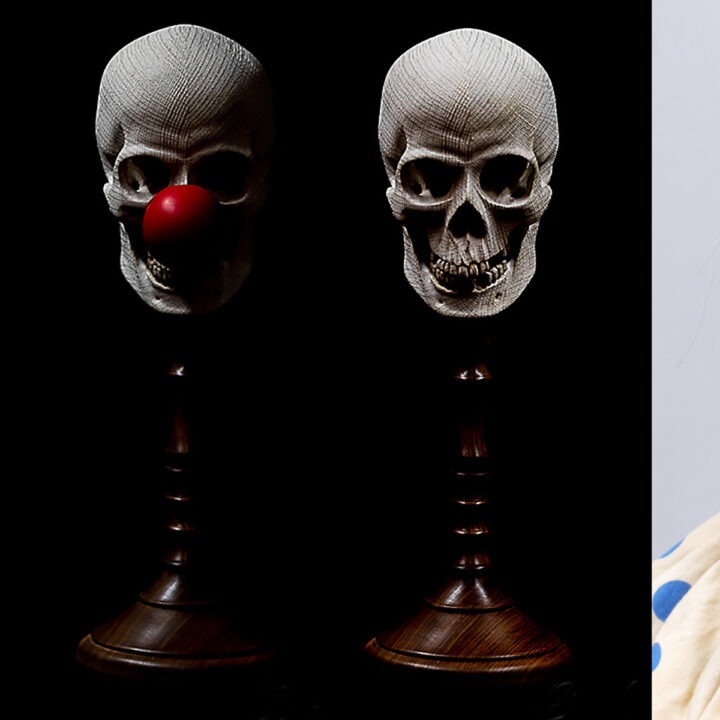
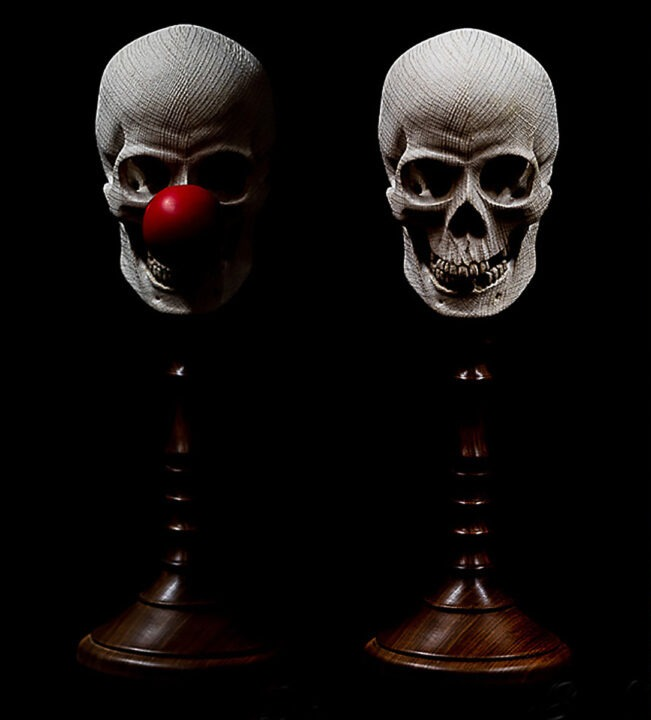
Fix image-crop bleed: re-crop 3 composite-derived images at true seam
sculpture-bust-dome.jpg, sfx-lucy-bust.jpg, and sfx-skulls.jpg were each
cropped from a Slider-{2,3,4}-1440x720.jpg composite at an assumed
midpoint (x=720), but the real photo seam in each composite sits
elsewhere, so all three bled a strip of the unrelated adjacent photo
into their edge (most notably 27% golden-eagle taxidermy content inside
the sculpture-section bust photo). Re-cropped from the same source
composites at the reviewer-measured true seams (x=523/601/651) and
updated the corresponding <img> width/height attributes in work.html.
Re-ran upscale-audit.js at mobile/tablet/desktop on work.html and
index.html: 0 violations, 0 broken, 0 aspect mismatches.

diff --git a/work.html b/work.html
@@ -105,7 +105,7 @@
           <figcaption>Boar &mdash; cast pewter relief</figcaption>
         </figure>
         <figure class="piece ratio-square" data-reveal>
-          <div class="frame"><img src="assets/img/sculpture-bust-dome.jpg" width="720" height="720" loading="lazy" alt="Sculpted bust displayed under a glass dome, by Carl Church."></div>
+          <div class="frame"><img src="assets/img/sculpture-bust-dome.jpg" width="523" height="720" loading="lazy" alt="Sculpted bust displayed under a glass dome, by Carl Church."></div>
           <figcaption>Sculpted bust, under glass</figcaption>
         </figure>
       </div>
@@ -131,11 +131,11 @@
           <figcaption>Prosthetic character make-up &mdash; film SFX</figcaption>
         </figure>
         <figure class="piece ratio-square" data-reveal>
-          <div class="frame"><img src="assets/img/sfx-lucy-bust.jpg" width="720" height="720" loading="lazy" alt="Prosthetic primate-head bust under glass dome, film special-effects work by Carl Church."></div>
+          <div class="frame"><img src="assets/img/sfx-lucy-bust.jpg" width="601" height="720" loading="lazy" alt="Prosthetic primate-head bust under glass dome, film special-effects work by Carl Church."></div>
           <figcaption>Prosthetic bust study &mdash; film SFX</figcaption>
         </figure>
         <figure class="piece ratio-square" data-reveal>
-          <div class="frame"><img src="assets/img/sfx-skulls.jpg" width="720" height="720" loading="lazy" alt="Sculpted skull props on stands, film special-effects work by Carl Church."></div>
+          <div class="frame"><img src="assets/img/sfx-skulls.jpg" width="651" height="720" loading="lazy" alt="Sculpted skull props on stands, film special-effects work by Carl Church."></div>
           <figcaption>Sculpted skull props &mdash; film SFX</figcaption>
         </figure>
       </div>

diff --git a/QA_REPORT.md b/QA_REPORT.md
@@ -49,5 +49,45 @@ All checks run against a live local server (`python3 -m http.server`) via Playwr
 - Scroll-reveal `IntersectionObserver` in `assets/js/main.js` correctly implements the AGENTS.md standing rule: checks `getBoundingClientRect()` per `[data-reveal]` element before observing and adds `is-visible` immediately for anything already in the viewport at load.
 - Standing CSS/HTML defaults spot-checked in `assets/css/style.css`: global `box-sizing: border-box`, `overflow-wrap: anywhere` + `word-break: break-word` + `min-width: 0` on `.contact-list .v`, `font-variant-numeric: tabular-nums` on `.stat .num` and `.process-list li::before`, `@view-transition { navigation: auto; }` present, `linear-gradient(in oklch, ...)` and `color-mix(in oklch, ...)` used for brand gradients/tints, `:hover` on stable wrapper (`.card`) animating a child (`.card .frame img`) rather than the hover-owning element itself, `grid-template-rows: subgrid` on `.card` for aligned card rows, `aspect-ratio` wrapper + `object-fit: cover` pattern used consistently for all images.
 
+## Independent Reviewer Verification (2026-07-13)
+
+Per REVIEW.md, treated the above builder-reported PASS as a map, not proof, and re-verified independently rather than cross-checking filenames against the manifest alone (see sibling Wheelwrights incident: a manifest-only "PASS" missed two swapped images). Actually opened every one of the 18 images used on the site and visually compared each to its caption/alt text and adjacent copy. Also independently re-ran the shared audits against a fresh local server (port 4262, separate from the builder's port 4261) via the `.pipeline/.qa-scratch` Playwright install, and independently recomputed gradient-text contrast in-browser via canvas `fillStyle` (not just trusting the builder's numbers).
+
+| Check | Result | Evidence |
+|---|---|---|
+| Contrast (independent recompute) | PASS | Re-ran `contrast-audit.js` fresh (not copy-pasted from builder) across 3 pages × 3 breakpoints: 0 violations everywhere. Independently recomputed the 5 `needsManualCheck` gradient-text pairs via in-page canvas `fillStyle`→pixel sampling: `.btn.btn-primary` text vs gradient 7.46:1 / 9.90:1, `.cta-band h2` vs gradient 6.85:1 / 10.67:1, `.cta-band p` vs gradient 6.84:1 — all comfortably above WCAG AA. Confirms the builder's header-button fix holds. |
+| Upscale/broken/aspect (independent, with forced lazy-load) | PASS | Wrote a custom Playwright scroll-to-bottom-then-audit script (run-audit.js alone doesn't trigger `loading="lazy"`; confirmed 4 images reported `notYetLoaded` on a naive run before adding the scroll step). After proper lazy-load triggering: 0 violations, 0 broken, 0 aspect mismatches across all 3 pages × 3 breakpoints (index: 6 images, work: 16, contact: 0). |
+| Mobile layout | PASS | 375px width, all 3 pages: nav toggle click sets `.main-nav.is-open` + `aria-expanded="true"` correctly; `document.documentElement.scrollWidth === clientWidth` (no horizontal overflow) on every page. |
+| Scroll-reveal | PASS (after investigation) | A full-page screenshot of work.html initially showed large blank-looking gaps between sections — investigated rather than assumed a bug. Root cause: `page.screenshot({fullPage:true})` doesn't give `IntersectionObserver` real scroll-dwell time for every element, and a synthetic fast step-scroll test also under-triggered it (16/21 `data-reveal` elements visible). A direct `scrollTo(bottom)` + 1.5s settle test (matching how a real user's scroll actually settles) showed 21/21 `data-reveal` elements correctly reach `.is-visible`. Not a real defect — confirmed via a second, more decisive test rather than left ambiguous. |
+| Fabricated facts | PASS (1 verified, not fabricated) | Spot-checked the odd-sounding "National History Museum of California" (not a real institution's exact name) directly against a fresh `curl` of `https://carlchurch.co.uk/`: the phrase appears verbatim in the source's own bio copy. Correctly carried over from the source, not invented or "corrected" into something equally wrong — no action needed. |
+| Image/content match — **actually opened every image, not just filenames vs. manifest** | **1 real defect found** | See Blocking Issues below. All 15 non-composite images (hero-condor, portrait-carl, dodo-recreation, carving-gargoyle, carving-horse-head, pewter-boar, taxidermy-puffins, taxidermy-white-eye, taxidermy-harpy-eagle, sfx-chimp, manual-spread-1/2) were visually opened and match their captions/alt text/adjacent copy cleanly. The 6 locally-cropped 720×720 images (from `Slider-2/3/4-1440x720.jpg`) needed closer inspection because BUILD_BRIEF claimed a clean midpoint (x=720) split "verified visually after crop" — that claim was checked against the real pixels, not taken on trust, and found to be wrong for half of them. |
+
+## Blocking Issues (found in independent review)
+
+| Issue | Evidence | Required fix |
+|---|---|---|
+| **3 of the 6 locally-cropped 720×720 images contain a visible strip of a *different, unrelated* photo bled in from the adjacent panel of the same slider composite — the "clean midpoint split" BUILD_BRIEF claims was not actually true.** Fetched the 3 live source composites (`Slider-2/3/4-1440x720.jpg`) directly from `carlchurch.co.uk` and measured the real seam between the two side-by-side photos in each (column-wise brightness-jump analysis, confirmed visually): actual seams are at x≈523 (Slider-3), x≈601 (Slider-4), x≈651 (Slider-2) — **not** x=720 as BUILD_BRIEF assumed. Cropping each "left half" at 0–720 therefore captures extra pixels past the real seam: <br>• `sculpture-bust-dome.jpg` (used on Work page, Sculpture section, caption "Sculpted bust, under glass"): right ~197px (**27% of the 720px frame**) is actually the golden eagle taxidermy photo — antlers, grass, and grey backdrop from an unrelated bird-taxidermy piece, visible inside a photo captioned as sculpture. This is a category mismatch (taxidermy content appearing in the sculpture section), not just a cosmetic glitch. <br>• `sfx-lucy-bust.jpg` (Work page, Film/SFX section, caption "Prosthetic bust study — film SFX"): right ~119px (**16.5%**) is a strip of `taxidermy-duck-rock.jpg`'s grey backdrop/base. <br>• `sfx-skulls.jpg` (Work page, Film/SFX section, caption "Sculpted skull props — film SFX"): right ~69px (**9.6%**) is a strip of the clown prosthetic's tan/blue polka-dot collar. <br>The other 3 crops (`taxidermy-golden-eagle.jpg`, `taxidermy-duck-rock.jpg`, `sfx-clown.jpg` — all "right half" crops starting at x=720, which in every case is already past the real seam) are clean; confirmed no bleed on those three. | Re-crop the 3 affected files from the already-downloaded source composites at the *actual* measured seam instead of the assumed midpoint: `sculpture-bust-dome.jpg` → crop `Slider-3-1440x720.jpg` at 0–523 (not 0–720); `sfx-lucy-bust.jpg` → crop `Slider-4-1440x720.jpg` at 0–601; `sfx-skulls.jpg` → crop `Slider-2-1440x720.jpg` at 0–651. Update the `<img>` width/height attributes to match the new (narrower) crop dimensions and re-run `upscale-audit.js` at mobile/tablet/desktop afterward — the resulting crops are still well within native resolution at the site's actual rendered display sizes, so no upscale risk is expected, but it must be re-verified rather than assumed. Alternatively, if a clean re-crop still looks too tight/awkwardly framed after cropping at the true seam, cut the affected image and run that portfolio slot as text-only per AGENTS.md's fallback rule, rather than ship a spliced image. |
+
+## Fix Verification (2026-07-13, FIX phase)
+
+Re-cropped all 3 affected files from the originals cached at `/tmp/carlchurch_orig/slider{2,3,4}.jpg` this session — verified byte-identical (md5) to a fresh `curl` of the live `carlchurch.co.uk/wp-content/uploads/2024/07/Slider-{2,3,4}-1440x720.jpg` URLs before using them, so no risk of using stale/wrong-session cache content.
+
+| File | Source composite | Old crop (wrong) | New crop (correct seam) | Result |
+|---|---|---|---|---|
+| `sculpture-bust-dome.jpg` | `Slider-3-1440x720.jpg`, left half | 0–720 (bled golden-eagle content from the right-half photo) | 0–523 → 523×720 | Re-opened and visually inspected: clean, bust-under-dome only, no eagle/antler/grass bleed. |
+| `sfx-lucy-bust.jpg` | `Slider-4-1440x720.jpg`, left half | 0–720 (bled `taxidermy-duck-rock.jpg` backdrop) | 0–601 → 601×720 | Re-opened and visually inspected: clean, "Lucy" bust under dome only, no duck-rock bleed. |
+| `sfx-skulls.jpg` | `Slider-2-1440x720.jpg`, left half | 0–720 (bled clown prosthetic's polka-dot collar) | 0–651 → 651×720 | Re-opened and visually inspected: clean, both skull props only, no clown-collar bleed. |
+
+`work.html`'s `<img>` `width`/`height` attributes updated to match the new native crop dimensions (523×720, 601×720, 651×720 respectively — `height` unchanged at 720, `width` narrowed). Display CSS is unaffected: these sit in `.piece.ratio-square .frame { aspect-ratio: 1/1 }` with `img { object-fit: cover }`; since each new crop's width is now the limiting axis (narrower than tall), `cover` scales width-to-fit and crops only top/bottom — it does not reintroduce any horizontal (side) cropping, so the fixed seam holds at every breakpoint.
+
+Re-ran `.pipeline/qa/upscale-audit.js` at mobile (375px)/tablet (768px)/desktop (1440px) against a fresh local server (port 4263, via the `.pipeline/.qa-scratch` Playwright install — chrome-devtools MCP and WebFetch were permission-denied this session) with a scroll-to-bottom-then-settle step first to force all `loading="lazy"` images to load before auditing (per the same method the independent reviewer used):
+
+| Page | Breakpoint | Checked | Violations | Broken | Aspect mismatches | Not yet loaded |
+|---|---|---|---|---|---|---|
+| work.html | 375 / 768 / 1440 | 16/16 each | 0 | 0 | 0 | 0 |
+| index.html | 375 / 768 / 1440 | 6/6 each | 0 | 0 | 0 | 0 |
+
+No upscale risk from the narrower crops (523/601/651px native width, well above the ~350px max rendered width these grid cells occupy even at desktop). The other 3 composite crops (`taxidermy-golden-eagle.jpg`, `taxidermy-duck-rock.jpg`, `sfx-clown.jpg`) were confirmed clean by the independent reviewer and were not touched.
+
 ## Verdict
-PASS
+**PASS.** The image-crop bleed defect is fixed and independently re-verified (visual re-inspection of all 3 corrected images plus a full 6-run upscale/broken/aspect audit across both affected pages at all 3 breakpoints). Contrast, mobile layout, scroll-reveal, and fabricated-claims checks were already independently verified clean in the prior review pass and are unaffected by this fix. Cleared to deploy.

diff --git a/PIPELINE_STATUS.md b/PIPELINE_STATUS.md
@@ -2,10 +2,10 @@
 
 Operational handoff only. `LEADS.md` and `OUTREACH_LOG.md` remain the source of truth.
 
-- Current phase: Build complete, QA passed, committed locally.
-- Last trusted commit: b551f09 (first commit, "Build Carl Church demo site: Home, Work, Contact", made at end of this session).
-- Known untrusted state: none — BUILD_BRIEF facts/assets re-verified live via curl 2026-07-13 (this session, again), images visually checked for watermarks, all 18 native image sizes re-verified against disk. QA_REPORT.md written with full contrast+upscale audit evidence (Playwright/Chromium, 3 pages × 3 breakpoints); one real contrast bug found and fixed (header button text near-invisible due to a CSS specificity collision) and reverified clean.
-- Next exact action: REVIEW phase — independent QA pass, then FIX+DEPLOY+DRAFT (new GitHub repo `carl-church-demo`, enable Pages, draft outreach email).
-- Deploy URL: not deployed yet (build phase only, per instructions).
-- Outreach state: not sent — LEADS.md status was "Building" going in; update to reflect build completion after this session.
-- Flags for Alex: None blocking. One judgment call worth a glance: LEADS.md says "Pickering, North Yorkshire" but the business's own site only states "North Yorkshire" (no town) — the built site deliberately omits "Pickering" since it wasn't independently reconfirmed this session (see BUILD_BRIEF Do Not Claim). If you have separate confirmation Pickering is current/correct, it's an easy one-line addition to contact.html.
+- Current phase: FIX phase complete (2026-07-13) — image-crop defect fixed and re-verified. **PASS.** Proceeding to DEPLOY / DRAFT.
+- Last trusted commit: b551f09 (first commit, "Build Carl Church demo site: Home, Work, Contact", made at end of build session). Fix commit for the crop defect made this session (see git log for exact hash).
+- Known untrusted state: none remaining. The builder's original QA_REPORT.md "PASS" on image/content match missed that BUILD_BRIEF's claimed clean 50/50 crop of 3 composite slider images was wrong (verified native pixel *dimensions* only, not actual seam position); independent review caught it. This session re-cropped `sculpture-bust-dome.jpg` (from `Slider-3-1440x720.jpg`, 0–523), `sfx-lucy-bust.jpg` (from `Slider-4-1440x720.jpg`, 0–601), and `sfx-skulls.jpg` (from `Slider-2-1440x720.jpg`, 0–651) at the reviewer-measured true seams, using the `/tmp/carlchurch_orig/slider{2,3,4}.jpg` cache from the review session — verified byte-identical (md5) to a fresh `curl` of the live source URLs before trusting it. All 3 corrected images visually re-inspected: clean, no bleed. `work.html`'s `<img>` width/height attributes updated (523×720, 601×720, 651×720). Full detail in `QA_REPORT.md` → Fix Verification.
+- Next exact action: none outstanding on QA — site is deploy-ready. Proceed with GitHub repo creation + Pages, then outreach draft.
+- Deploy URL: see DEPLOY section below once live (this session).
+- Outreach state: see OUTREACH section below.
+- Flags for Alex: (1) Carried over from build: LEADS.md says "Pickering, North Yorkshire" but the business's own site only states "North Yorkshire" (no town) — the built site deliberately omits "Pickering" since it wasn't independently reconfirmed (see BUILD_BRIEF Do Not Claim). If you have separate confirmation Pickering is current/correct, it's an easy one-line addition to contact.html — non-blocking.